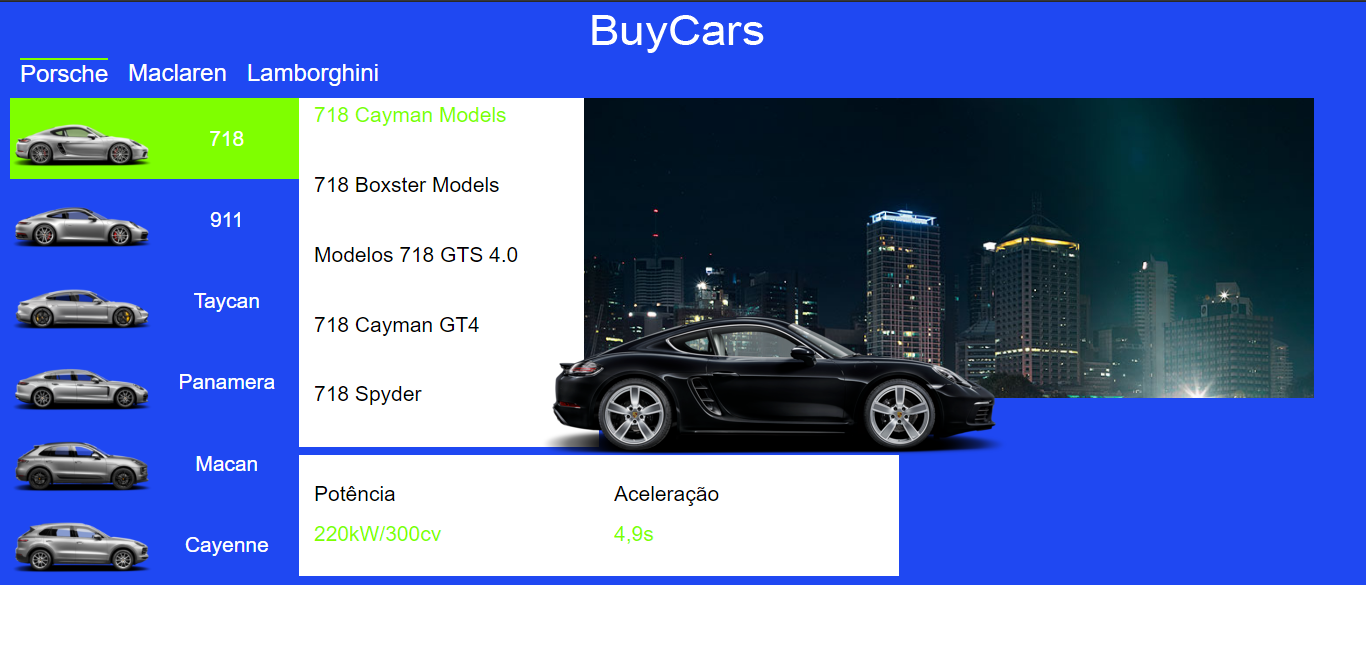
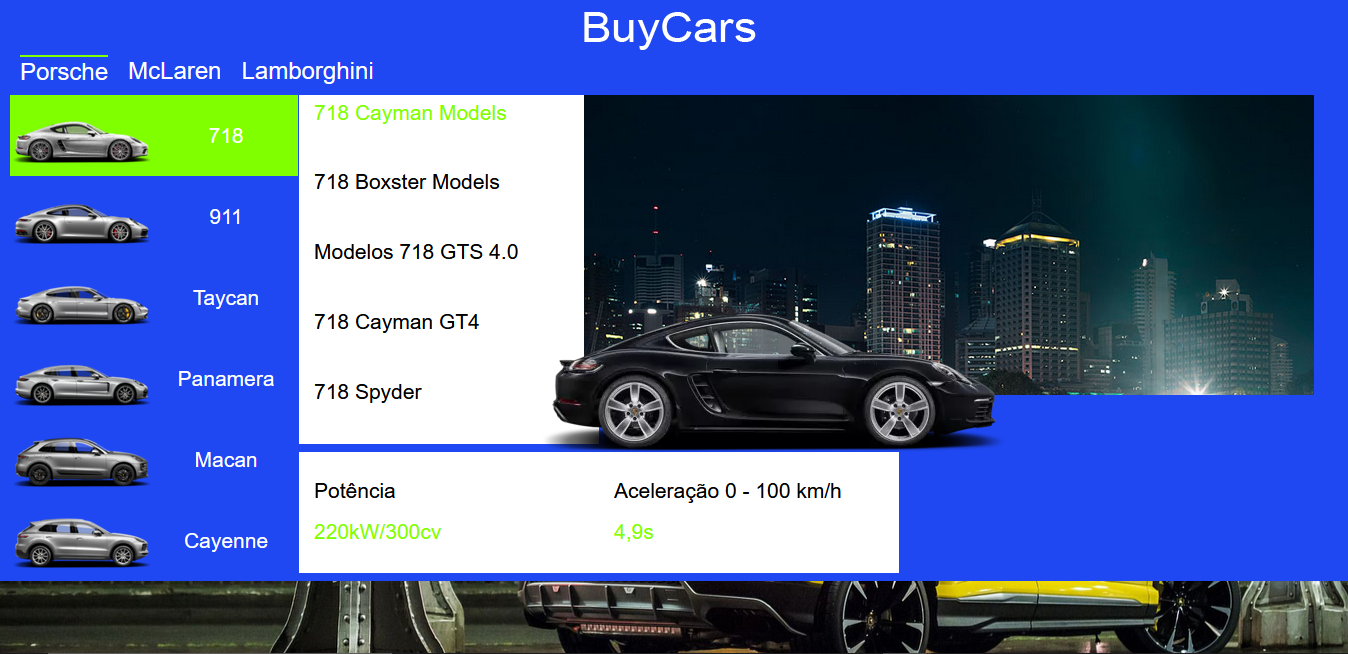
UPDATE 20: Added new imgs to buy-cars-front content

diff --git a/Projetos/buy-cars-front.html b/Projetos/buy-cars-front.html
@@ -54,7 +54,7 @@
 
                     <img class="border" src="../Assets/images/buy-cars-front.png">
 
-                    <img src="../Assets/images/buy-cars-front-mobile.png">
+                    <img src="../Assets/images/buy-cars-front-mobile-2.png">
 
             </div>
             <!-- /CONTENT -->
@@ -93,7 +93,6 @@
                     <h2>Estado do projeto: <span class="status_const">Construção</span></h2>
                 </header>
                 <ul class="description_article_state_list">
-                    <li>Construir cta</li>
                     <li>Construir conteúdo da página inicial</li>
                     <li>Construir página individual dos veículos</li>
                 </ul>
